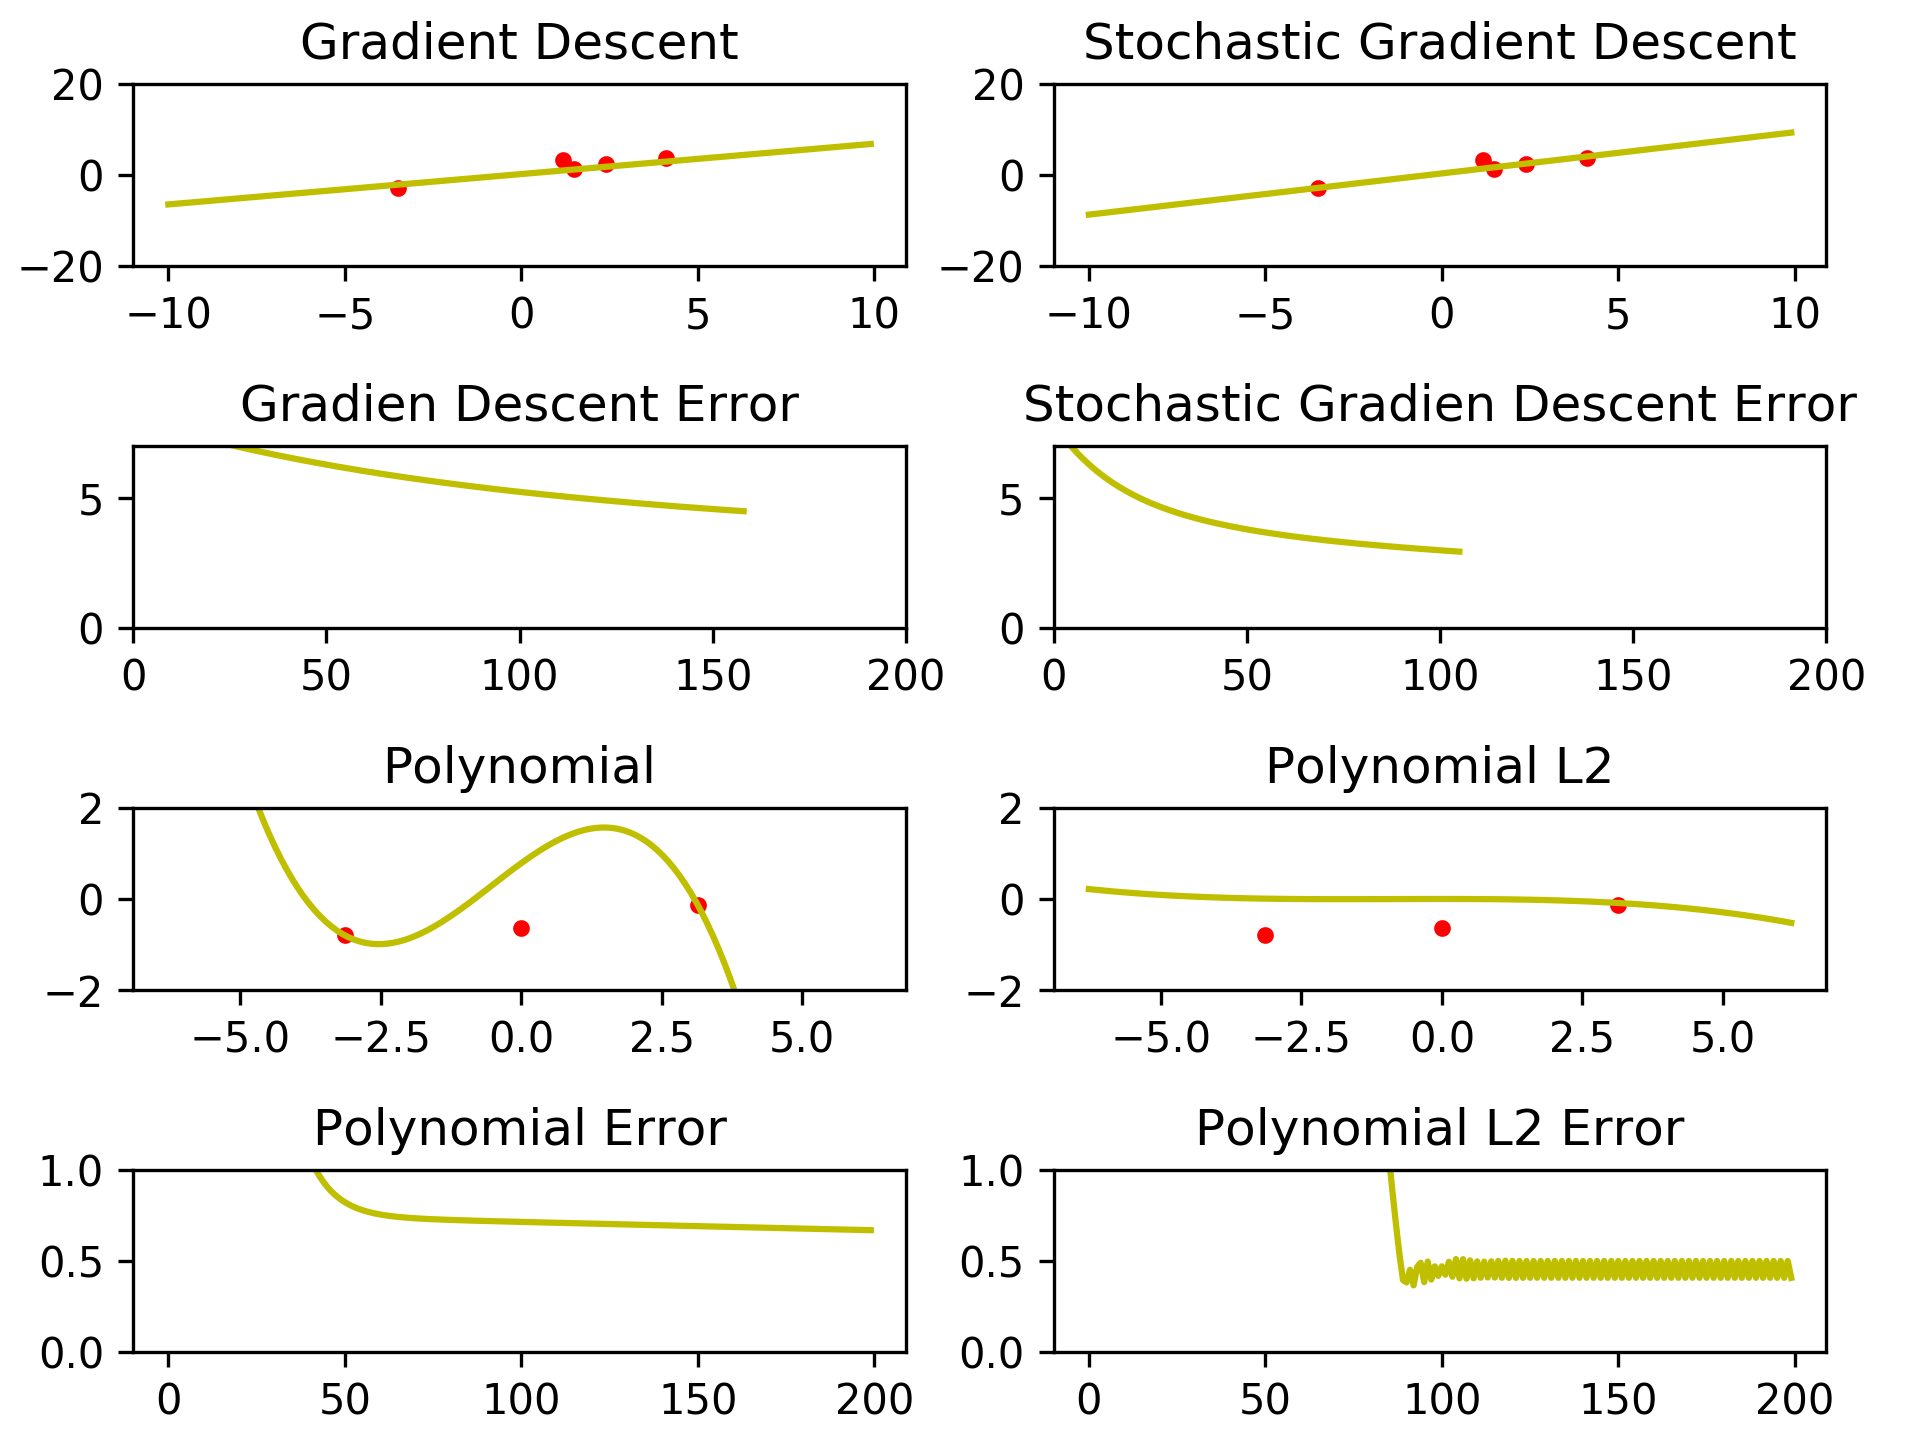
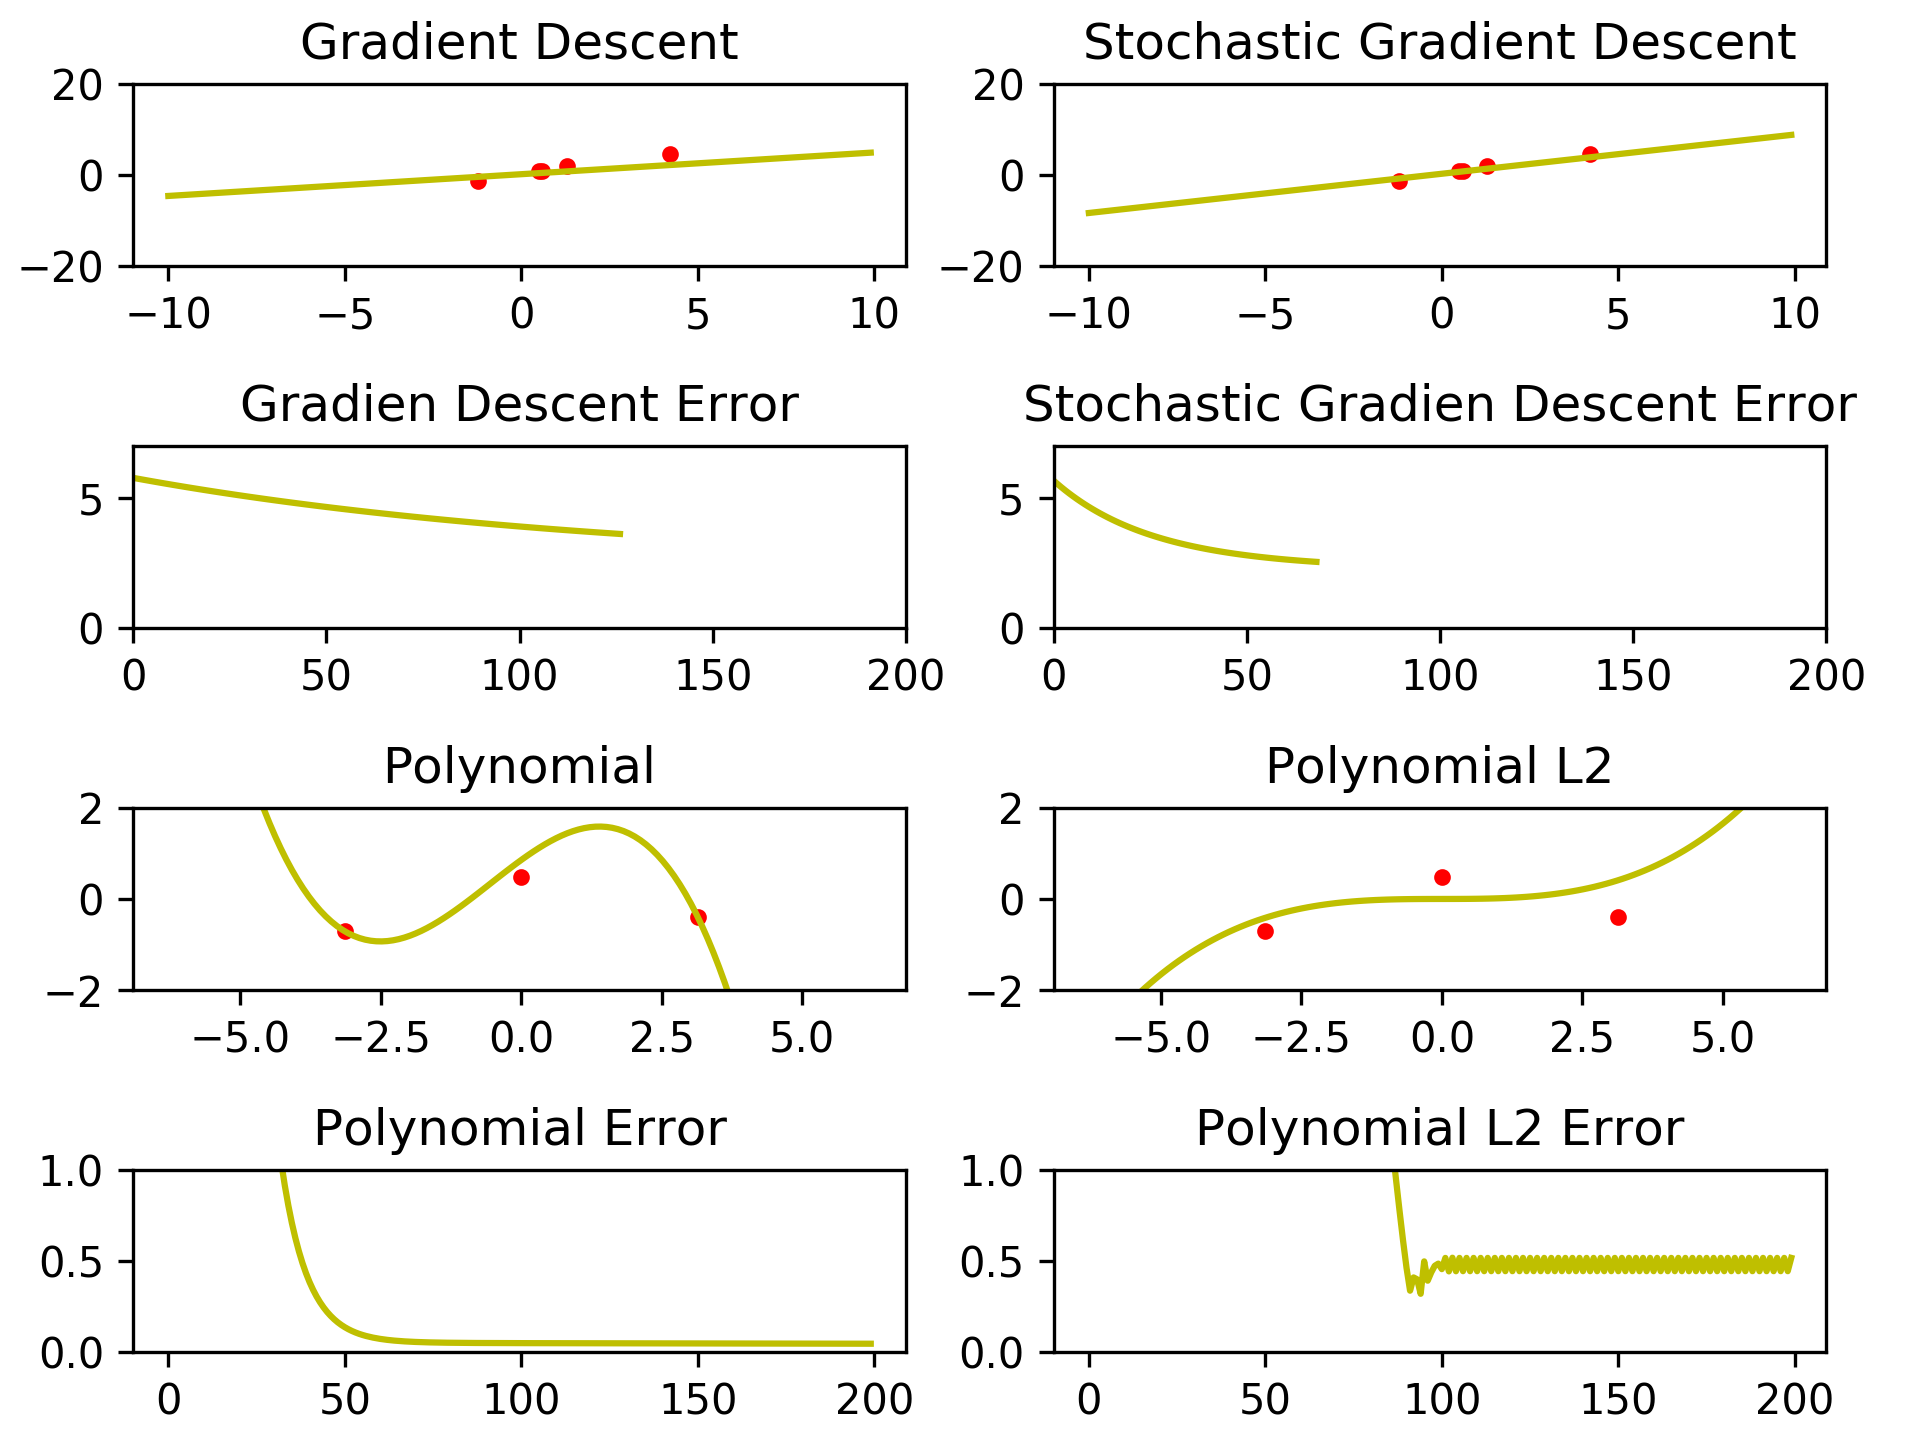
adjust exmaples

diff --git a/src/__init__.py b/src/__init__.py
@@ -194,7 +194,7 @@ def learning(iterator, error_treshold=0.00001, E=0):
 x_values = range(5) + np.random.normal(scale=3, size=5)
 
 x_plot = np.arange(-10, 10, 0.1)
-y_values = x_values + np.random.normal(scale=1.1, size=len(x_values))
+y_values = x_values + np.random.normal(scale=0.5, size=len(x_values))
 dataset = list(zip(x_values, y_values))
 
 
@@ -263,7 +263,7 @@ pipeline_p1 = max_iterations(learning(gd(
         df=gradient_of_least_squers_polynomial
     ),
     error_func=least_squere_error_polynomial
-), error_treshold=0.00001), max=200)
+), error_treshold=0.000001), max=200)
 
 pipeline_p1 = list(pipeline_p1)
 
@@ -284,7 +284,7 @@ pipeline_p2 = max_iterations(learning(gd(
     error_func=least_squere_error_polynomial_with_l2(
         bias_coefficient=14.2
     )
-), error_treshold=0.00001), max=200)
+), error_treshold=0.000001), max=200)
 
 pipeline_p2 = list(pipeline_p2)
 
